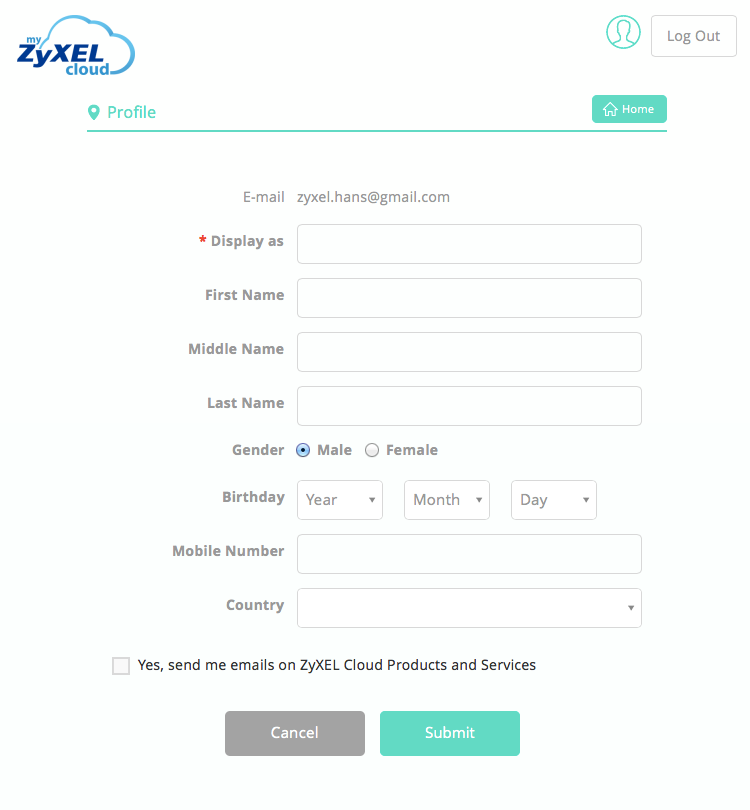
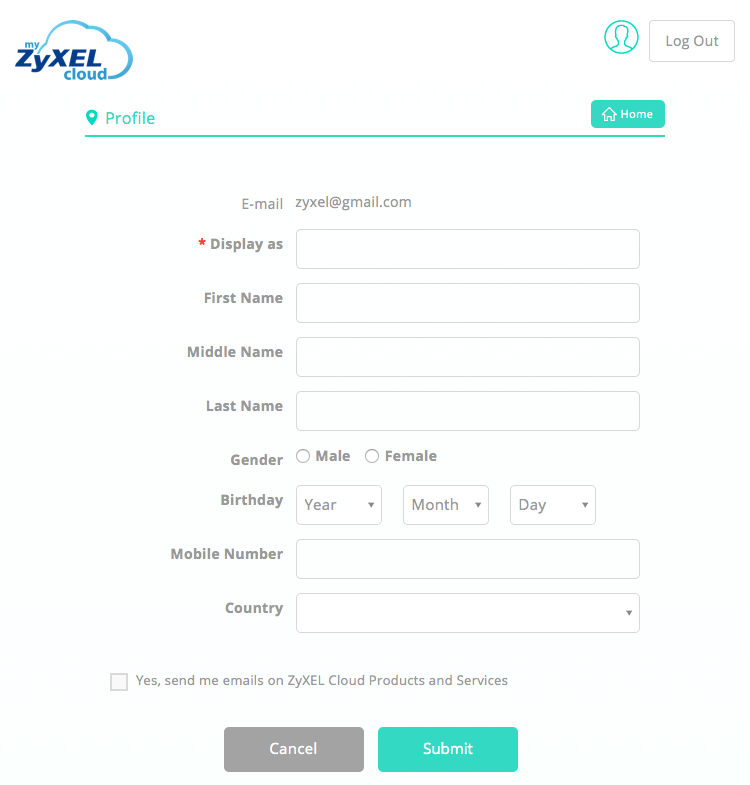
Fix form checkbox font-size for chrome issue & Change help image for different and privacy

diff --git a/app/assets/stylesheets/base.css.scss b/app/assets/stylesheets/base.css.scss
@@ -66,6 +66,10 @@ body {
 .zyxel_content{
   max-width: 480px;
   margin: 0 auto;
+  .checkbox_label, .zyxel_edm{
+    color:$zyxel_color2;
+    font-size:13px;
+  }
 }
 .nav_zyxel {
   float: right;
